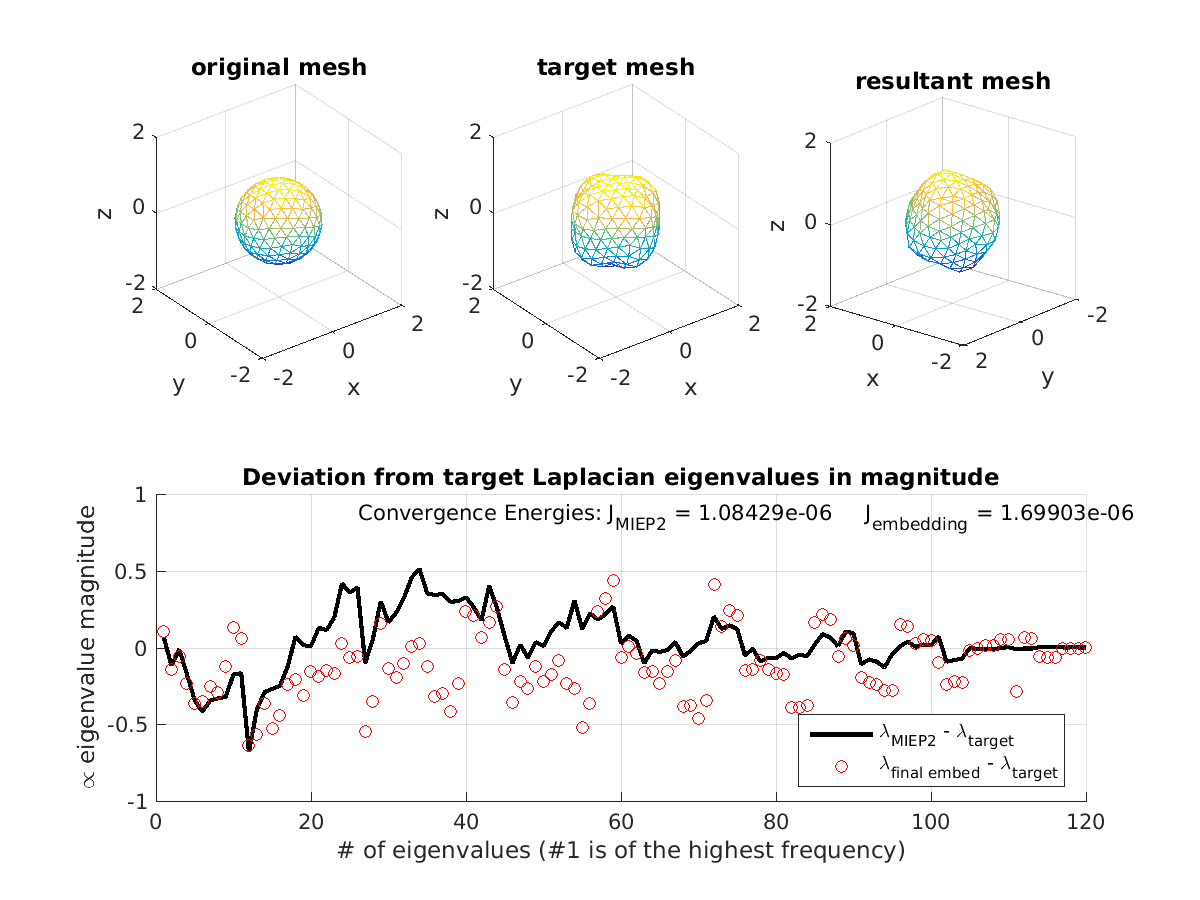
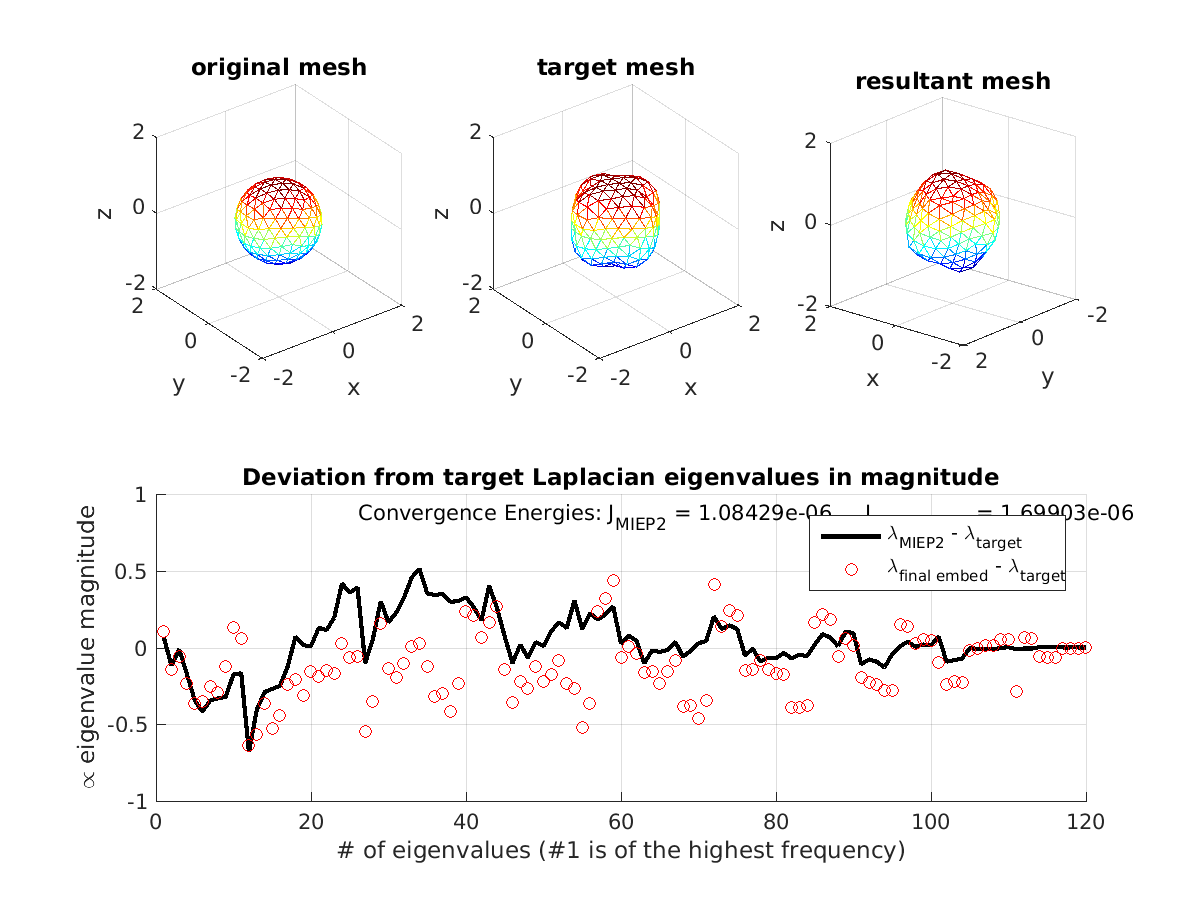
stupid legends

diff --git a/visualize.m b/visualize.m
@@ -39,7 +39,8 @@ plot((D_endp - D_T),'k-','linewidth',2);
 plot((D_end - D_T),'ro');
 legend('\lambda_{MIEP2} - \lambda_{target}',...
   '\lambda_{final embed} - \lambda_{target}',...
-  'location','best');
+  'location','northeast');
+%   'location','best');
 %   'location','southeast');
 xlabel('# of eigenvalues (#1 is of the highest frequency)'); 
 % ylabel('Eigenvalue deviation [%]');
@@ -47,6 +48,7 @@ ylabel('\propto eigenvalue magnitude');
 title('Deviation from target Laplacian eigenvalues in magnitude');
 
 ym = get(gca,'ylim');
+set(gca,'xlim',[0 numel(D_0)])
 xm = get(gca,'xlim');
 text(floor(max(xm)/4.5),max(ym(2) + .18*diff(ym)),...
   num2str([J_hist(end) Jc_hist(end)],...

diff --git a/graphics_redo.m b/graphics_redo.m
@@ -8,7 +8,12 @@ for i = 1:size(datalist{1},1)
   load([token '.mat']);
   figh = visualize(v,f,v_end,v_T,f_T,...
   J_hist,Jc_hist,D_0,D_T,D_endp,D_end);
+  colormap('jet');
   saveas(figh,[token '.png']);
 %   [token,remain] = strtok(remain);
   close all;
 end
+
+%% two gifs
+unix('convert -delay 100 -loop 0 i2_200_t2_abs\(Y32\(v\)\)_e*.png i2_300_t2_abs\(Y32\(v\)\)_e0.6p2.png i2_200-300_t2_abs\(Y32\(v\)\)_e0.6p0.4-2.gif');
+unix('convert -delay 100 -loop 0 i3_300_t2_abs\(Y33\(v\)\)_e*.png i3_300_t2_abs\(Y33\(v\)\)_e0.1-1p0.512.gif');
